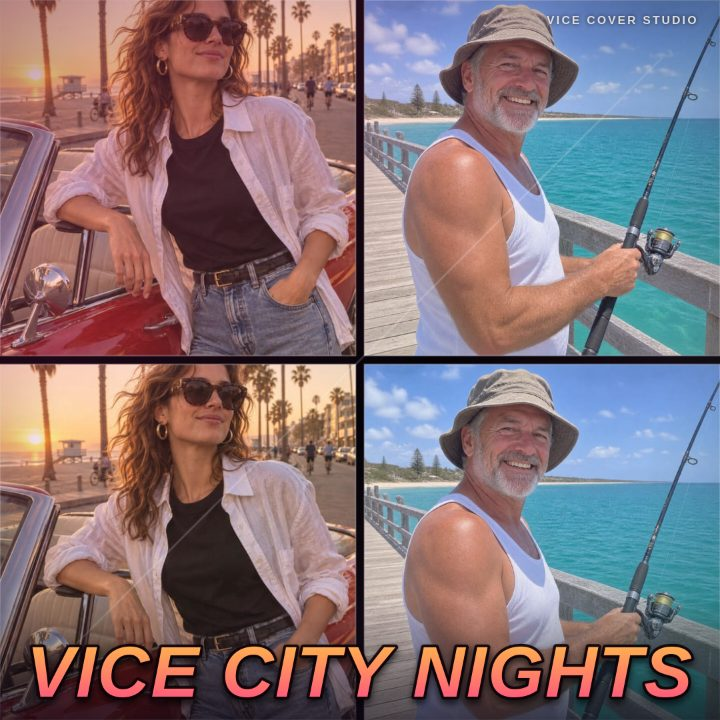
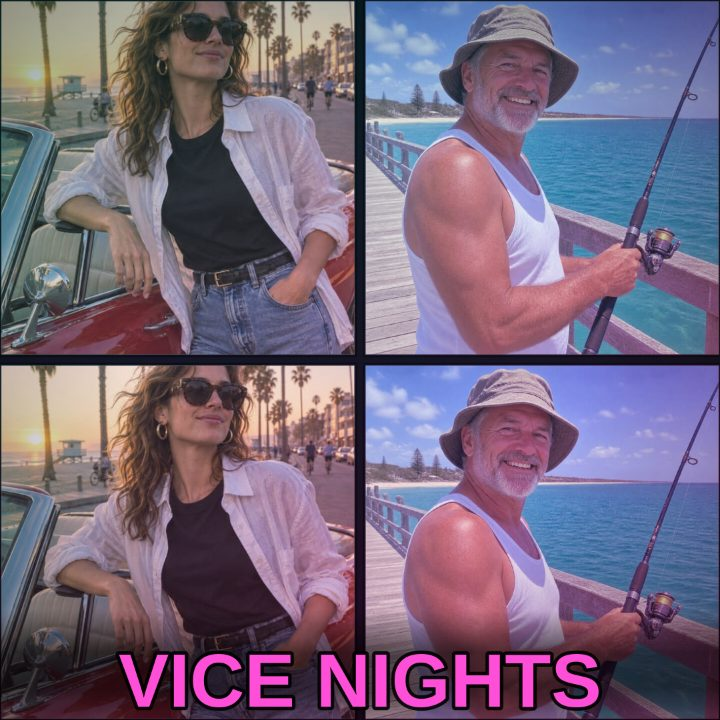
README with make.fun badges and four screenshots

diff --git a/README.md b/README.md
@@ -1,58 +1,43 @@
-# Vice Cover Studio — GTA 6 Cover Art Maker
+[![gta6-cover-art-01](https://make.fun/badge/gta6-cover-art-01.svg)](https://make.fun/bounty/gta6-cover-art-01)
+[![rank](https://make.fun/badge/gta6-cover-art-01/HeyRdzy/gta6-cover-art-01/rank.svg)](https://make.fun/bounty/gta6-cover-art-01)
+[![reward](https://make.fun/badge/gta6-cover-art-01/HeyRdzy/gta6-cover-art-01/reward.svg)](https://make.fun/bounty/gta6-cover-art-01)
 
-[![GTA 6 Cover Art Maker — make.fun bounty](https://make.fun/badge/gta6-cover-art-01.svg)](https://make.fun/bounty/gta6-cover-art-01)
-[![GTA 6 Cover Art Maker rank on make.fun](https://make.fun/badge/gta6-cover-art-01/HeyRdzy/gta6-cover-art-01/rank.svg)](https://make.fun/bounty/gta6-cover-art-01)
-[![GTA 6 Cover Art Maker reward on make.fun](https://make.fun/badge/gta6-cover-art-01/HeyRdzy/gta6-cover-art-01/reward.svg)](https://make.fun/bounty/gta6-cover-art-01)
+# Neon Coast Cover Studio
 
-Vice Cover Studio turns your own photos and a caption into GTA-style cover
-art: a multi-panel poster with bold caption lettering and a Vice City sunset
-or neon colour grade, exported as a PNG to share. Everything runs offline in
-your browser — photos are read on your machine and never uploaded.
+A GTA-style cover art maker that runs entirely offline in the browser. Load your own photos (or the two free samples), arrange them in multi-panel poster layouts, pick a Vice City sunset or neon colour grade, write a bold caption, and export a PNG ready to post.
 
-## How it works
+## What it does
 
-1. **Add photos** — pick images from your machine, or load the two free
-   sample photos (Boulevard, Pier) to try it out.
-2. **Pick a layout** — Showdown (one big panel + two stacked), Four corners
-   (2×2 grid), Triple strip (three vertical panels), or Hero shot
-   (one full-bleed photo).
-3. **Arrange each panel** — click a panel to select it, drag inside it to pan
-   the photo, use the zoom slider, or cycle which photo fills it. Click a
-   thumbnail to put that photo in the selected panel.
-4. **Caption & grade** — type the caption, set its size, top or bottom
-   position, and colour; pick a grade: Sunset, Neon nights, Noir, or Clean.
-5. **Export PNG** — 1080×1080, 1080×1350, or 1920×1080, one click.
+- **Any photo** — load photos from your machine (file picker or drag-and-drop) or the two free sample photos. Photos are read locally and never uploaded.
+- **Multi-panel posters** — four layouts: Hero Split (one big moment, two side stories), Four Corners, Triple Strip, and Spotlight (one photo, full bleed). Fill several panels with one photo or several; click a thumbnail, then a panel, to place a photo.
+- **Crop and position** — click a panel to select it, drag it to pan the photo inside, and zoom from 1× to 2.5×.
+- **Bold caption lettering** — editable text, size, position (top / middle / bottom) and underline colour; the lettering fits itself to one line and its gradient matches the colour grade.
+- **Colour grades** — Sunset (warm Vice City dusk), Neon Nights (magenta and cyan glow), Noir, and Clean.
+- **Fast export** — one click exports a PNG at 1080 × 1080, 1080 × 1350 or 1920 × 1080.
 
-The live preview is exactly what the export draws: the same geometry,
-grades, caption lettering and grain go into the PNG.
+## Originality
+
+Everything here is original: no Rockstar Games logo, wordmark, official artwork, character or font file. All lettering is drawn on canvas with system font stacks, and the two sample photos were made with an image model for make.fun and are free to use.
 
 ## Run it
-
-Serve `app/` with any static server and open `index.html`, for example:
 
 ```sh
 node serve.ts
 ```
 
-then open the address it prints. No build step, no network at runtime: every
-script, style and sample image is a file under `app/`.
+Then open http://localhost:8080. Or serve `app/` with any static file server — the app makes no network requests.
 
-## Originality
+## Hand it in
 
-All artwork, lettering and code in this entry are original. It uses no
-Rockstar Games logo, wordmark, official artwork, character, or font file from
-any game. The caption is drawn with generic system font stacks
-(`Arial Black`, Impact, sans-serif) — no font file is shipped. The two
-sample photos under `app/samples/` were made with an image model for make.fun
-and are free to use.
+```sh
+mkdir -p out && MAKEFUN_OUTPUT_DIR=out node main.ts
+```
 
-## Files
+That copies `app/` and `screenshots/` to `out/` and writes `out/dossier.json`.
 
-- `app/index.html` — the editor page
-- `app/style.css` — dark neon editor styling
-- `app/src/app.js` — editor state, DOM preview, drag-to-pan, upload, export
-- `app/src/render.js` — panel layouts, colour grades, cover geometry, canvas export
-- `app/samples/` — the two free sample photos
-- `main.ts` — hands the app in: copies `app/` and `screenshots/` to the
-  output directory and writes `dossier.json` with `buildDossier`
-- `screenshots/` — 3–4 screenshots taken while building this entry
+## Screenshots
+
+- `1-cover.jpg` — exported wide cover (Hero Split + Sunset, 1920 × 1080)
+- `2-editor.jpg` — the editor with photos loaded (Hero Split + Sunset)
+- `3-cover-square.jpg` — exported square cover (Four Corners + Neon Nights, 1080 × 1080)
+- `4-editor-neon.jpg` — the editor (Triple Strip + Neon Nights)
